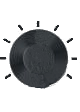
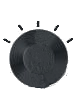
changed controller for aquarium

diff --git a/Assets/Scripts/FilterController.cs b/Assets/Scripts/FilterController.cs
@@ -18,30 +18,30 @@ public class FilterController : MonoBehaviour {
 				filterPower = 0f;
 				switch (counter) {
 				case 5:
-					gameObject.GetComponent<RectTransform> ().localRotation = Quaternion.Euler (new Vector3 (0, 0, -40));
+					gameObject.GetComponent<RectTransform> ().localRotation = Quaternion.Euler (new Vector3 (0, 0, -65));
 					break;
 				case 4:
-					gameObject.GetComponent<RectTransform> ().localRotation = Quaternion.Euler (new Vector3 (0, 0, -20));
+					gameObject.GetComponent<RectTransform> ().localRotation = Quaternion.Euler (new Vector3 (0, 0, -35));
 					break;
 				case 3:
 					gameObject.GetComponent<RectTransform> ().localRotation = Quaternion.Euler (new Vector3 (0, 0, 0));
 					break;
 				case 2:
-					gameObject.GetComponent<RectTransform> ().localRotation = Quaternion.Euler (new Vector3 (0, 0, 20));
+					gameObject.GetComponent<RectTransform> ().localRotation = Quaternion.Euler (new Vector3 (0, 0, 35));
 					break;
 				default:
-					gameObject.GetComponent<RectTransform> ().localRotation = Quaternion.Euler (new Vector3 (0, 0, 40));
+					gameObject.GetComponent<RectTransform> ().localRotation = Quaternion.Euler (new Vector3 (0, 0, 65));
 					break;
 				}
 			} else {
 				switch (counter) {
 				case 5:
 					filterPower = 100f;
-					gameObject.GetComponent<RectTransform> ().localRotation = Quaternion.Euler (new Vector3 (0, 0, -40));
+					gameObject.GetComponent<RectTransform> ().localRotation = Quaternion.Euler (new Vector3 (0, 0, -65));
 					break;
 				case 4:
 					filterPower = 80f;
-					gameObject.GetComponent<RectTransform> ().localRotation = Quaternion.Euler (new Vector3 (0, 0, -20));
+					gameObject.GetComponent<RectTransform> ().localRotation = Quaternion.Euler (new Vector3 (0, 0, -35));
 					break;
 				case 3:
 					filterPower = 60f;
@@ -49,11 +49,11 @@ public class FilterController : MonoBehaviour {
 					break;
 				case 2:
 					filterPower = 40f;
-					gameObject.GetComponent<RectTransform> ().localRotation = Quaternion.Euler (new Vector3 (0, 0, 20));
+					gameObject.GetComponent<RectTransform> ().localRotation = Quaternion.Euler (new Vector3 (0, 0, 35));
 					break;
 				default:
 					filterPower = 20f;
-					gameObject.GetComponent<RectTransform> ().localRotation = Quaternion.Euler (new Vector3 (0, 0, 40));
+					gameObject.GetComponent<RectTransform> ().localRotation = Quaternion.Euler (new Vector3 (0, 0, 65));
 					break;
 				}
 			}

diff --git a/Assets/Scripts/OxygenController.cs b/Assets/Scripts/OxygenController.cs
@@ -18,30 +18,30 @@ public class OxygenController : MonoBehaviour {
 				oxygenPower = 0f;
 				switch (counter) {
 				case 5:
-					gameObject.GetComponent<RectTransform> ().localRotation = Quaternion.Euler (new Vector3 (0, 0, -40));
+					gameObject.GetComponent<RectTransform> ().localRotation = Quaternion.Euler (new Vector3 (0, 0, -65));
 					break;
 				case 4:
-					gameObject.GetComponent<RectTransform> ().localRotation = Quaternion.Euler (new Vector3 (0, 0, -20));
+					gameObject.GetComponent<RectTransform> ().localRotation = Quaternion.Euler (new Vector3 (0, 0, -35));
 					break;
 				case 3:
 					gameObject.GetComponent<RectTransform> ().localRotation = Quaternion.Euler (new Vector3 (0, 0, 0));
 					break;
 				case 2:
-					gameObject.GetComponent<RectTransform> ().localRotation = Quaternion.Euler (new Vector3 (0, 0, 20));
+					gameObject.GetComponent<RectTransform> ().localRotation = Quaternion.Euler (new Vector3 (0, 0, 35));
 					break;
 				default:
-					gameObject.GetComponent<RectTransform> ().localRotation = Quaternion.Euler (new Vector3 (0, 0, 40));
+					gameObject.GetComponent<RectTransform> ().localRotation = Quaternion.Euler (new Vector3 (0, 0, 65));
 					break;
 				}
 			} else {
 				switch (counter) {
 				case 5:
 					oxygenPower = 100f;
-					gameObject.GetComponent<RectTransform> ().localRotation = Quaternion.Euler (new Vector3 (0, 0, -40));
+					gameObject.GetComponent<RectTransform> ().localRotation = Quaternion.Euler (new Vector3 (0, 0, -65));
 					break;
 				case 4:
 					oxygenPower = 80f;
-					gameObject.GetComponent<RectTransform> ().localRotation = Quaternion.Euler (new Vector3 (0, 0, -20));
+					gameObject.GetComponent<RectTransform> ().localRotation = Quaternion.Euler (new Vector3 (0, 0, -35));
 					break;
 				case 3:
 					oxygenPower = 60f;
@@ -49,11 +49,11 @@ public class OxygenController : MonoBehaviour {
 					break;
 				case 2:
 					oxygenPower = 40f;
-					gameObject.GetComponent<RectTransform> ().localRotation = Quaternion.Euler (new Vector3 (0, 0, 20));
+					gameObject.GetComponent<RectTransform> ().localRotation = Quaternion.Euler (new Vector3 (0, 0, 35));
 					break;
 				default:
 					oxygenPower = 20f;
-					gameObject.GetComponent<RectTransform> ().localRotation = Quaternion.Euler (new Vector3 (0, 0, 40));
+					gameObject.GetComponent<RectTransform> ().localRotation = Quaternion.Euler (new Vector3 (0, 0, 65));
 					break;
 				}
 			}

diff --git a/Assets/Scripts/LightController.cs b/Assets/Scripts/LightController.cs
@@ -18,30 +18,30 @@ public class LightController : MonoBehaviour {
 				lightPower = 0f;
 				switch (counter) {
 				case 5:
-					gameObject.GetComponent<RectTransform> ().localRotation = Quaternion.Euler (new Vector3 (0, 0, -40));
+					gameObject.GetComponent<RectTransform> ().localRotation = Quaternion.Euler (new Vector3 (0, 0, -65));
 					break;
 				case 4:
-					gameObject.GetComponent<RectTransform> ().localRotation = Quaternion.Euler (new Vector3 (0, 0, -20));
+					gameObject.GetComponent<RectTransform> ().localRotation = Quaternion.Euler (new Vector3 (0, 0, -35));
 					break;
 				case 3:
 					gameObject.GetComponent<RectTransform> ().localRotation = Quaternion.Euler (new Vector3 (0, 0, 0));
 					break;
 				case 2:
-					gameObject.GetComponent<RectTransform> ().localRotation = Quaternion.Euler (new Vector3 (0, 0, 20));
+					gameObject.GetComponent<RectTransform> ().localRotation = Quaternion.Euler (new Vector3 (0, 0, 35));
 					break;
 				default:
-					gameObject.GetComponent<RectTransform> ().localRotation = Quaternion.Euler (new Vector3 (0, 0, 40));
+					gameObject.GetComponent<RectTransform> ().localRotation = Quaternion.Euler (new Vector3 (0, 0, 65));
 					break;
 				}
 			} else {
 				switch (counter) {
 				case 5:
 					lightPower = 100f;
-					gameObject.GetComponent<RectTransform> ().localRotation = Quaternion.Euler (new Vector3 (0, 0, -40));
+					gameObject.GetComponent<RectTransform> ().localRotation = Quaternion.Euler (new Vector3 (0, 0, -65));
 					break;
 				case 4:
 					lightPower = 80f;
-					gameObject.GetComponent<RectTransform> ().localRotation = Quaternion.Euler (new Vector3 (0, 0, -20));
+					gameObject.GetComponent<RectTransform> ().localRotation = Quaternion.Euler (new Vector3 (0, 0, -35));
 					break;
 				case 3:
 					lightPower = 60f;
@@ -49,11 +49,11 @@ public class LightController : MonoBehaviour {
 					break;
 				case 2:
 					lightPower = 40f;
-					gameObject.GetComponent<RectTransform> ().localRotation = Quaternion.Euler (new Vector3 (0, 0, 20));
+					gameObject.GetComponent<RectTransform> ().localRotation = Quaternion.Euler (new Vector3 (0, 0, 35));
 					break;
 				default:
 					lightPower = 20f;
-					gameObject.GetComponent<RectTransform> ().localRotation = Quaternion.Euler (new Vector3 (0, 0, 40));
+					gameObject.GetComponent<RectTransform> ().localRotation = Quaternion.Euler (new Vector3 (0, 0, 65));
 					break;
 				}
 			}

diff --git a/Assets/Scripts/HeatController.cs b/Assets/Scripts/HeatController.cs
@@ -18,30 +18,30 @@ public class HeatController : MonoBehaviour {
 				heatPower = 0f;
 				switch (counter) {
 				case 5:
-					gameObject.GetComponent<RectTransform> ().localRotation = Quaternion.Euler (new Vector3 (0, 0, -40));
+					gameObject.GetComponent<RectTransform> ().localRotation = Quaternion.Euler (new Vector3 (0, 0, -65));
 					break;
 				case 4:
-					gameObject.GetComponent<RectTransform> ().localRotation = Quaternion.Euler (new Vector3 (0, 0, -20));
+					gameObject.GetComponent<RectTransform> ().localRotation = Quaternion.Euler (new Vector3 (0, 0, -35));
 					break;
 				case 3:
 					gameObject.GetComponent<RectTransform> ().localRotation = Quaternion.Euler (new Vector3 (0, 0, 0));
 					break;
 				case 2:
-					gameObject.GetComponent<RectTransform> ().localRotation = Quaternion.Euler (new Vector3 (0, 0, 20));
+					gameObject.GetComponent<RectTransform> ().localRotation = Quaternion.Euler (new Vector3 (0, 0, 35));
 					break;
 				default:
-					gameObject.GetComponent<RectTransform> ().localRotation = Quaternion.Euler (new Vector3 (0, 0, 40));
+					gameObject.GetComponent<RectTransform> ().localRotation = Quaternion.Euler (new Vector3 (0, 0, 65));
 					break;
 				}
 			} else {
 				switch (counter) {
 				case 5:
 					heatPower = 100f;
-					gameObject.GetComponent<RectTransform> ().localRotation = Quaternion.Euler (new Vector3 (0, 0, -40));
+					gameObject.GetComponent<RectTransform> ().localRotation = Quaternion.Euler (new Vector3 (0, 0, -65));
 					break;
 				case 4:
 					heatPower = 80f;
-					gameObject.GetComponent<RectTransform> ().localRotation = Quaternion.Euler (new Vector3 (0, 0, -20));
+					gameObject.GetComponent<RectTransform> ().localRotation = Quaternion.Euler (new Vector3 (0, 0, -35));
 					break;
 				case 3:
 					heatPower = 60f;
@@ -49,11 +49,11 @@ public class HeatController : MonoBehaviour {
 					break;
 				case 2:
 					heatPower = 40f;
-					gameObject.GetComponent<RectTransform> ().localRotation = Quaternion.Euler (new Vector3 (0, 0, 20));
+					gameObject.GetComponent<RectTransform> ().localRotation = Quaternion.Euler (new Vector3 (0, 0, 35));
 					break;
 				default:
 					heatPower = 20f;
-					gameObject.GetComponent<RectTransform> ().localRotation = Quaternion.Euler (new Vector3 (0, 0, 40));
+					gameObject.GetComponent<RectTransform> ().localRotation = Quaternion.Euler (new Vector3 (0, 0, 65));
 					break;
 				}
 			}

diff --git a/Assets/Scripts/PowerSwitch.cs b/Assets/Scripts/PowerSwitch.cs
@@ -7,6 +7,8 @@ using UnityEngine.UI;
 public class PowerSwitch : MonoBehaviour {
 	public GameObject mainController;
 	public bool power = true;
+	public Sprite imageOn;
+	public Sprite imageOff;
 	// Use this for initialization
 	void Start () {
 		
@@ -21,9 +23,9 @@ public class PowerSwitch : MonoBehaviour {
 			mainController.GetComponent<AquaCondition> ().powerIsOn = power;
 		}
 		if (power) {
-			gameObject.GetComponent<Image> ().color = new Color (0, 0, 255);
+			gameObject.GetComponent<Image> ().sprite = imageOn;
 		} else {
-			gameObject.GetComponent<Image> ().color = new Color (255, 0, 0);
+			gameObject.GetComponent<Image> ().sprite = imageOff;
 		}
 	}
 	public void OnOff(bool switching){
